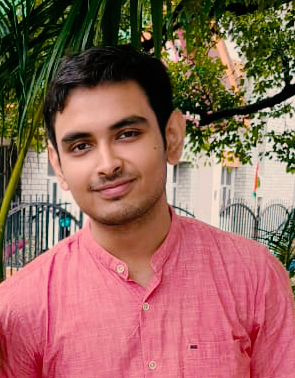
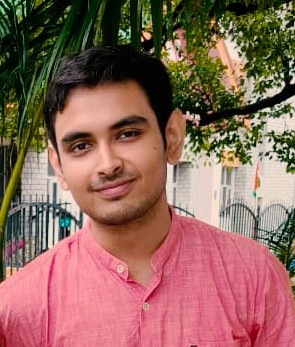
added data

diff --git a/index.html b/index.html
@@ -1321,21 +1321,21 @@
             role: "PRESIDENT",
             name: "AYUSH<br>SHARMA",
             resolve: "THE PRES.",
-            img: null,
+            img: "./images/members/ayush_pres.jpg.png",
           },
           {
             id: "MA036",
             role: "VICE PRESIDENT",
             name: "SAHIL<br>RANA",
             resolve: "V.P.",
-            img: null,
+            img: "./images/members/sahil_vp.png",
           },
           {
             id: "CH015",
             role: "FINANCE HEAD",
             name: "AYUSH<br>ABHYUDAYA",
             resolve: "HEAD OF FINANCE",
-            img: null,
+            img: "./images/members/ayush_finance.jpg",
           },
           {
             id: "MA037",
